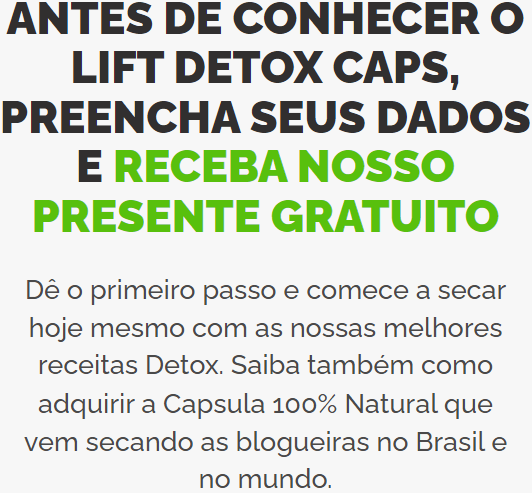
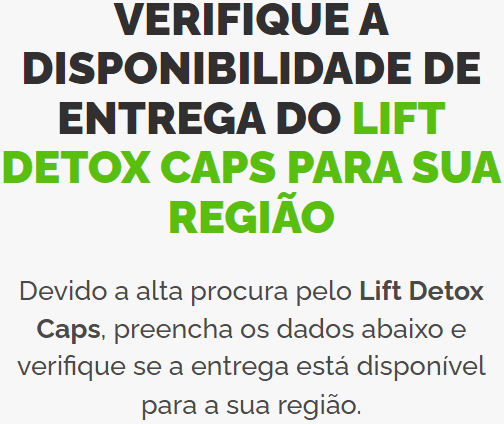
Add files via upload

diff --git a/Ebook-Gratis/index.html b/Ebook-Gratis/index.html
@@ -29,23 +29,22 @@
 </head>
 <body>
 		<img class="logo" src="img/pote-topo.png">
-		<img class="headline" src="img/headline4.png">
-		<!--
-		<h1>Antes de conhecer o Lift Detox Caps, preencha seus dados e receba nosso presente gratuito</h1>
-		<p>Dê o primeiro passo e comece a secar hoje mesmo com as nossas melhores receitas Detox. Saiba também como adquirir a Capsula 100% Natural que vem secando as blogueiras no Brasil e no mundo.</p>-->
-
-		<!--Form Top-->
-		<div id="form" class="login-box">
+		<img class="headline" src="img/headline1.png">
+				<div id="form" class="login-box">
 		  <h2>Preencha corretamente</h2>
 		  	<form action="https://api.sheetmonkey.io/form/5HieyX6naUxynGQ17ukmwU" method="post">
 		    <div class="user-box">
 		      <input type="text" name="Nome" required>
-		      <label>Nome</label>
+		      <label>Seu Nome:</label>
 		    </div>
 		    <div class="user-box">
-		      <!-- <input type="tel" name="Telefone" pattern="[0-9]{11}" required>-->
-		      <input type="number" name="Telefone" required>
-		      <label>Telefone com (DDD)</label>
+		      <input type="text" name="Cidade" required>
+		      <label>Sua Cidade:</label>
+		    </div>
+		    <div class="user-box">
+		      <input type="tel" name="Telefone" pattern="[0-9]{11}" required>
+		      <!--<input type="number" name="Telefone" required>-->
+		      <label>Telefone com (DDD):</label>
 		    </div>
 		    <input type="hidden" name="Data de envio" value="x-sheetmonkey-current-date-time" />
 		    <button type="submit">
@@ -53,11 +52,12 @@
 		      <span></span>
 		      <span></span>
 		      <span></span>
-		      Acessar o Site
+		      verificar entrega
 		    </button>
 		    <img src="img/ssl.png">
 		  </form>
 		</div>
+		<img class="correios" src="img/correios.png">
 		<!--
 		<img class="final" src="img/30dias.png">
 		<a class="last-a" href="#form">

diff --git a/Ebook-Gratis/css.css b/Ebook-Gratis/css.css
@@ -19,7 +19,7 @@ body {
 
 .headline{
   display: block;
-  margin: 0 auto 250px auto;
+  margin: 0 auto 20px auto;
   padding-top: 15px;
 }
 
@@ -29,7 +29,7 @@ body {
   left: 50%;
   width: 540px;
   padding: 40px;
-  transform: translate(-50%, -50%);
+  transform: translate(-50%, 0%);
   /*background: rgba(0,0,0,.5);*/
   background-color: #0D1F07;
   box-sizing: border-box;
@@ -200,6 +200,11 @@ body {
   }
 }
 
+.correios {
+  width: 300px;
+  margin: 30px 0px 150px 0px;
+}
+
 footer div{
   background-color: #8C8C8C;
   /*margin-top: 650px;*/
@@ -237,7 +242,7 @@ footer p{
 
   .headline {
     width: 100%;
-    margin-bottom: 250px;
+    margin-bottom: 20px;
   }
 
   .login-box{
@@ -256,6 +261,11 @@ footer p{
 
   .login-box form a{
     /*font-size: 40px;*/
+  }
+
+  .correios {
+    width: 80%;
+    margin: 30px 0 150px 0;
   }
 
   .final {
